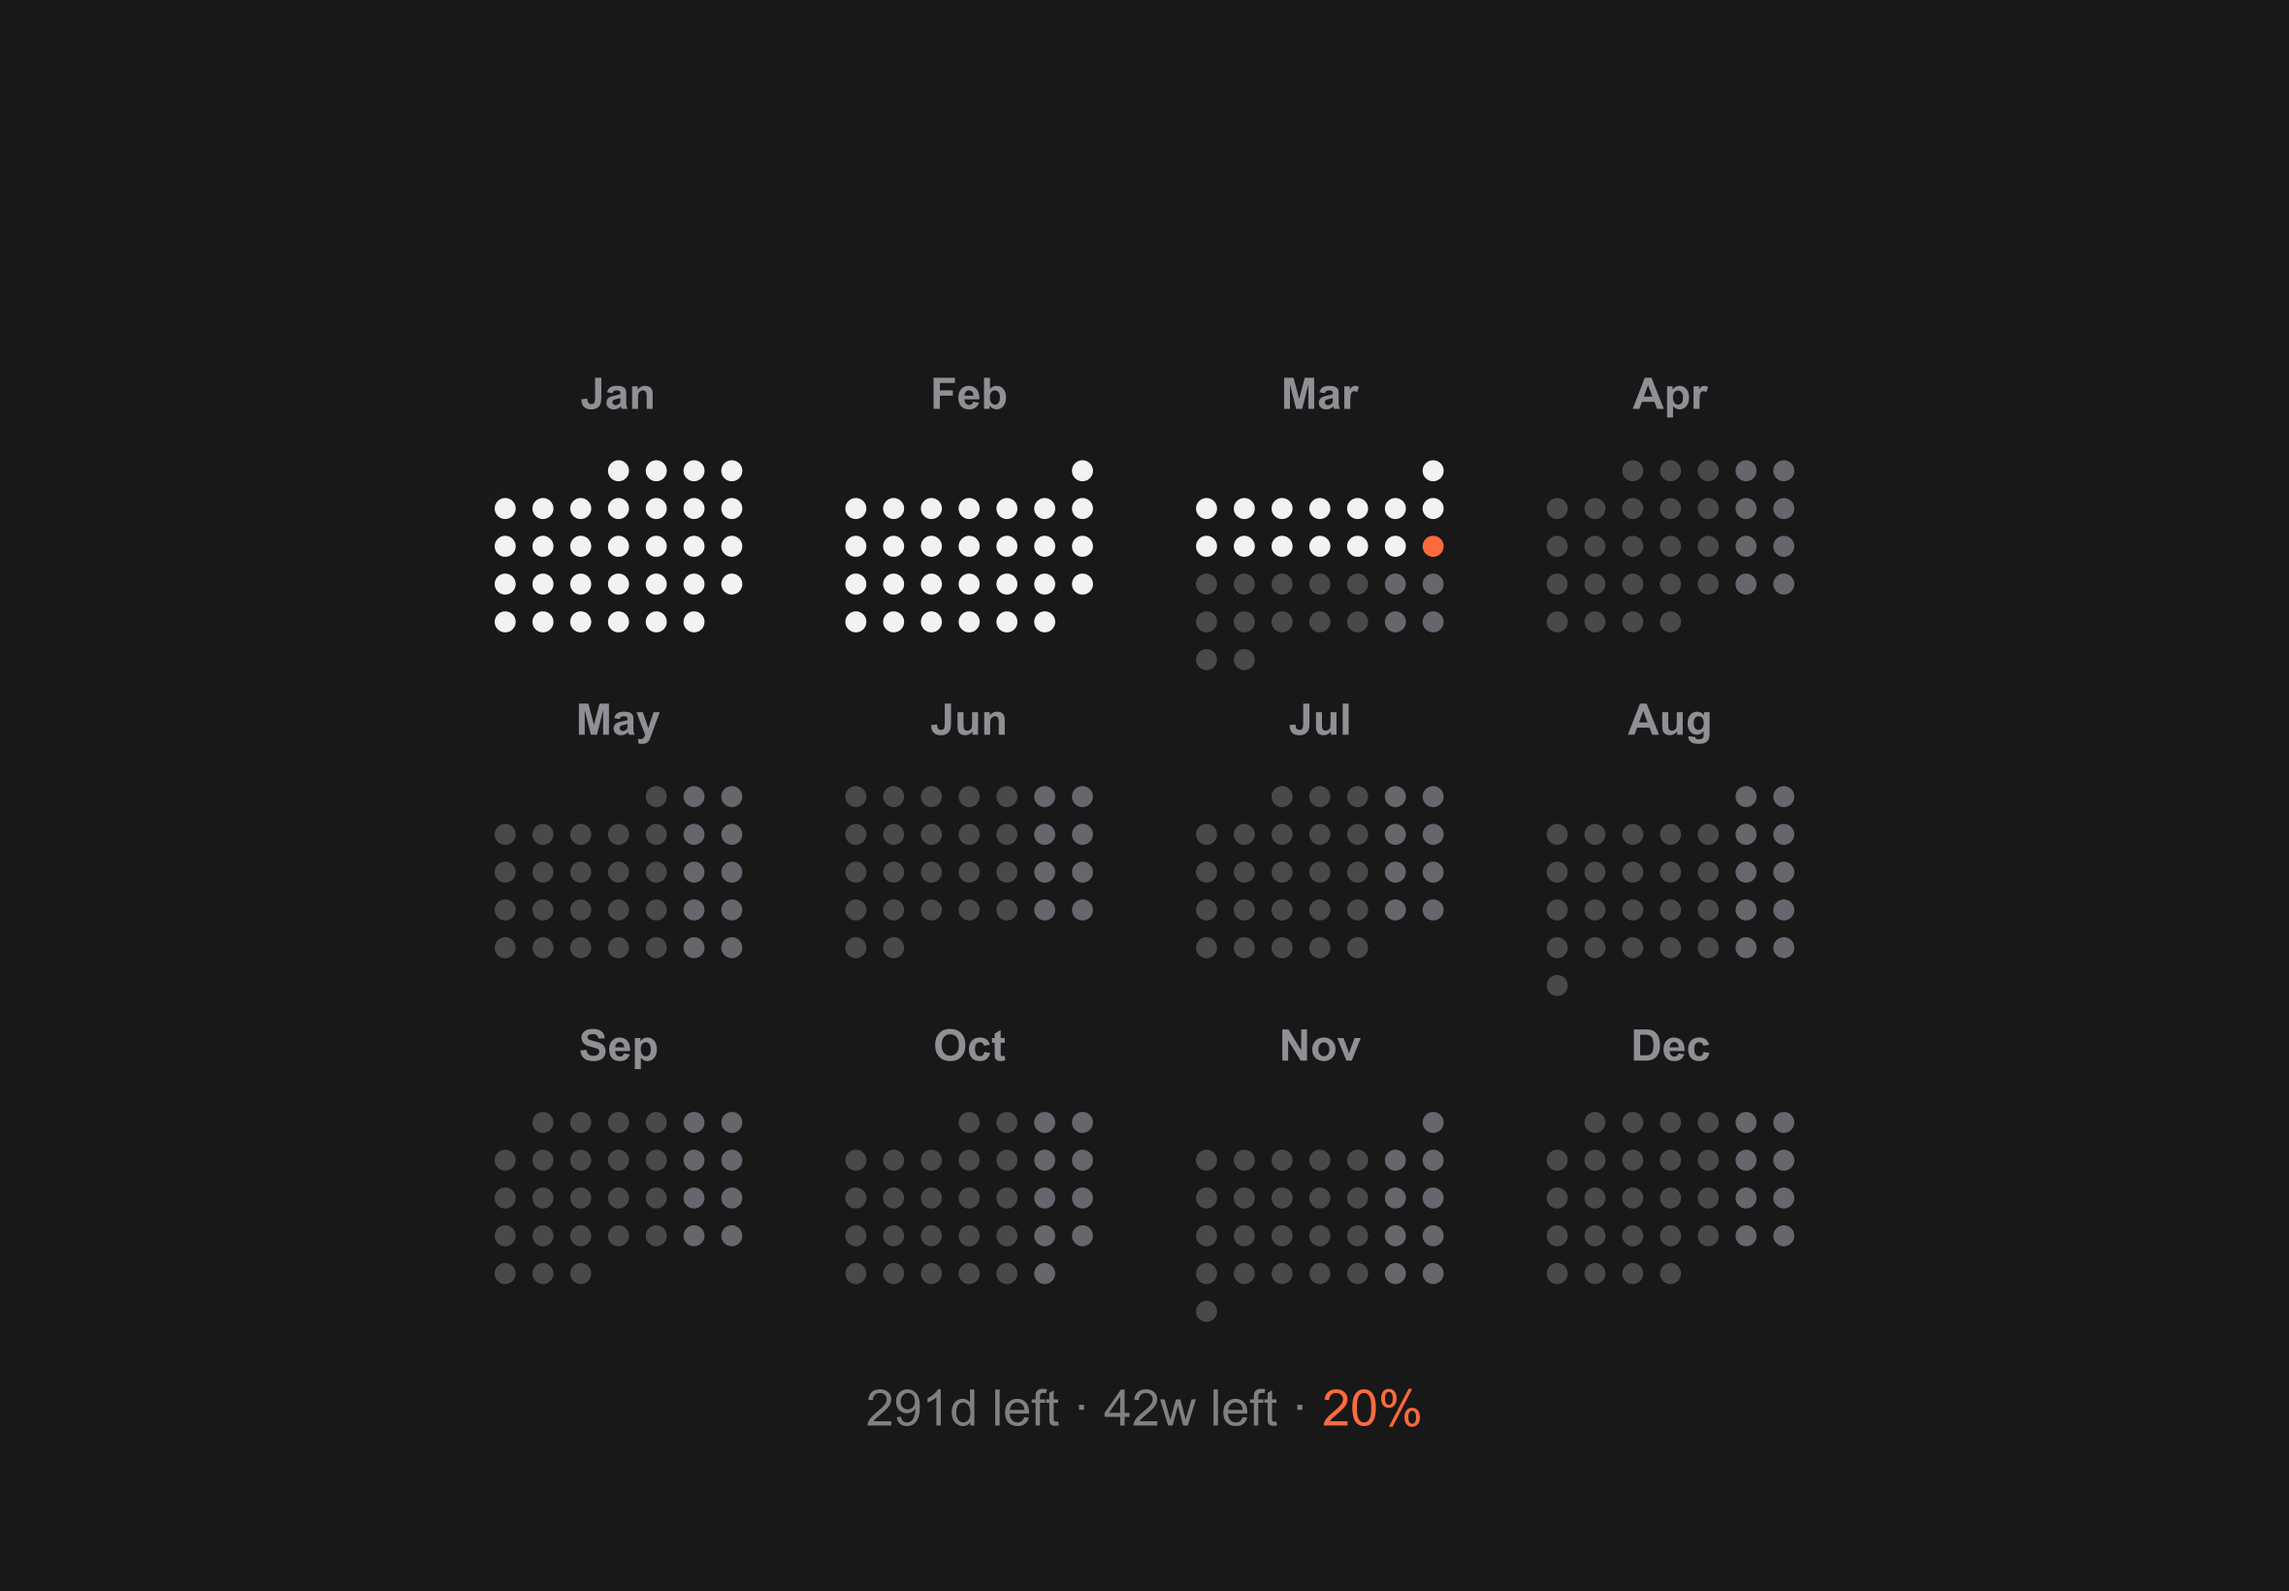
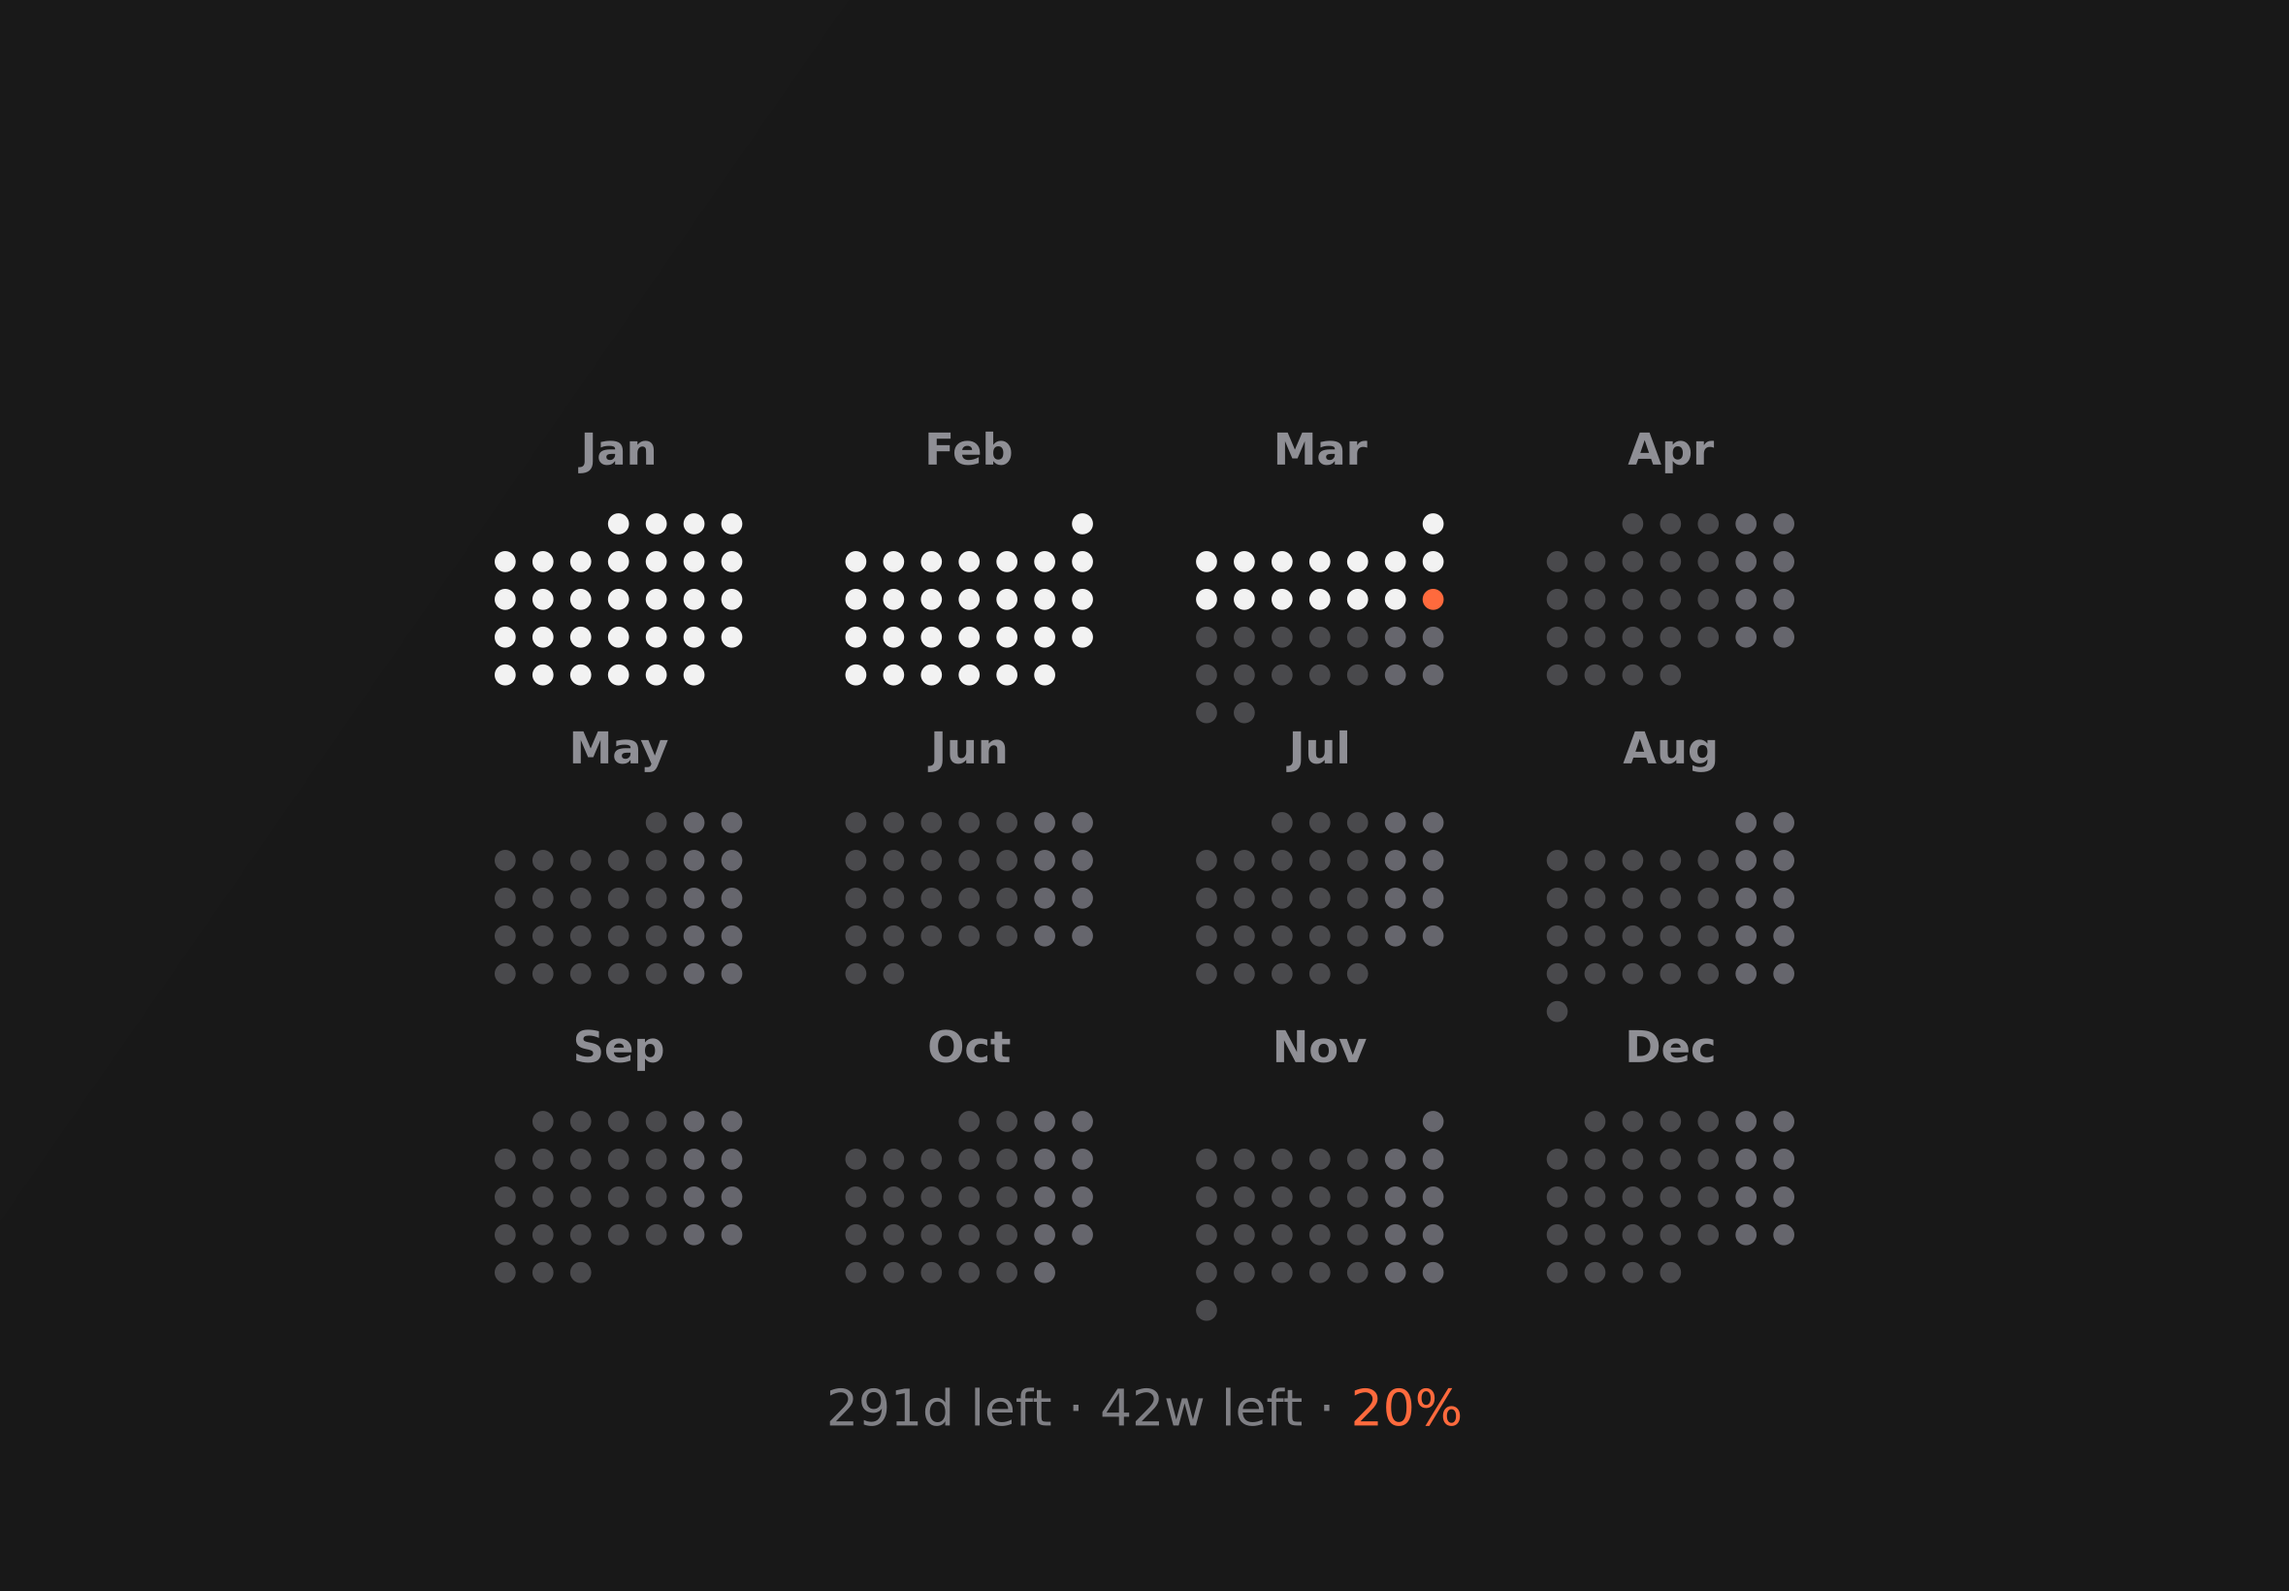
Ipad Test

diff --git a/configs/ipad-landscape.js b/configs/ipad-landscape.js
@@ -12,12 +12,12 @@ module.exports = {
   highlightWeekends: true,
   gradientColors: BACKGROUND_GRADIENT,
   grid: {
-    topPaddingRatio: 0.257,
-    monthGapYRatio: 0.035,
+    topPaddingRatio: 0.292,
+    monthGapYRatio: 0.018,
     monthGapXRatio: 0.045,
     monthLabelSizeRatio: 0.019,
     monthLabelMinPx: 30,
-    monthLabelGapRatio: 1.18,
+    monthLabelGapRatio: 1.12,
     dotSpacingRatio: 0.0165,
     dotRadiusRatio: 0.0046
   },

diff --git a/tests/layout-safety.js b/tests/layout-safety.js
@@ -26,7 +26,7 @@ const cases = [
   {
     name: "ipad landscape",
     config: validateWallpaperConfig({ ...ipadLandscapeConfig, monthNames: MONTH_NAMES }),
-    minTopPadding: 410,
+    minTopPadding: 470,
     minGapBetweenCalendarAndProgress: 55,
     minBottomSafeArea: 130
   }
